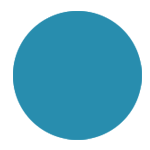
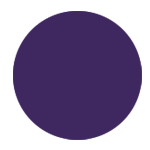
ui stuff
ui stuff

diff --git a/frontend/html/Copy (2) of novabase.html b/frontend/html/Copy (2) of novabase.html
@@ -72,31 +72,28 @@
 	</script>    
   </head>
   <body>
-  
-  {% if ref in ['predash','ancdash','delivery'] %}
-  {% set module = 'pregnancies' %}
-  {% endif %}
-  {% if ref in ['nbcdash'] %}
-  {% set module = 'newborn' %}
-  {% endif %}
-  {% if ref in ['pncdash'] %}
-  {% set module = 'postnatal' %}
-  {% endif %}
-  
-  
-  
-  
     <div id="top">
    
       <div id="header">
-                <div id="langs">
+        <div id="nom1">
+          <div id="ministry">
+            <img src="{{  static_path }}/images/rwanda.png" />
+          </div>
+          <div id="rapid">
+            <img src="{{  static_path }}/images/rapid.png" />
+            </div>
+            <div id="unicef">
+            <img src="{{  static_path }}/images/unicef1.png" />
+          </div>
+          <div id="motto"></div>
+        </div>
+        <div id="langs1">
           <ul>
             <li>English</li>
             <li>Kinyarwanda</li>
-            <li>Francais</li>
+            <li>Français</li>
           </ul>
         </div>
-        <div id="user">{{ display.auth.username() }}- <a href="/authentication?logout=yes">Logout</a></div>
         {%  block topstrip  %}
 
         <div id='cssmenu' class="cssmenu">
@@ -158,17 +155,17 @@
 	<div class="central">
     <div class="position">
 
-     <li><a href="/dashboards/home">  Home</a></li>
+     <li><a href="/">  Home</a></li>
 {% block position %}{% endblock %}
 
 </div>
       
       
       <div class="view">
-      <div class="tabular {% if view == 'log' %} {{ module }}background {% endif %} "><a href="/tables/{{ nav.link(ref, view = 'log', minus = ['summary']) }}">Log</a></div>
-      <div class="tabular {% if view == 'table'%} {{ module }}background {% endif %}"><a href="/tables/{{ nav.link(ref, summary = 'on', view = 'table')}}">Table</a></div>
-      <div class="graphic {% if view == 'graphic' %} {{ module }}background {% endif %}"><a href="/dashboards/{{ nav.link(ref, view = 'graphic', minus = ['summary'])}}">Graphic</a></div>
-
+      <div class="tabular {% if view == 'log' %} active {% endif %} "><a href="/tables/{{ nav.link(ref, view = 'log', minus = ['summary']) }}">Log</a></div>
+      <div class="tabular {% if view == 'table'%} active {% endif %}"><a href="/tables/{{ nav.link(ref, summary = 'on', view = 'table')}}">Table</a></div>
+      <div class="graphic {% if view == 'graphic' %} active {% endif %}"><a href="/dashboards/{{ nav.link(ref, view = 'graphic', minus = ['summary'])}}">Graphic</a></div>
+{{ ref }}
       </div>
 	</div>
 	</div>

diff --git a/frontend/html/nbcdash.html b/frontend/html/nbcdash.html
@@ -18,7 +18,7 @@
 
 
 <div class="smallcontainer">
-    <div class="infoname">Total Of {{display.title}} Newborn Visits</div>
+    <div class="infoname newborntext">Total Of {{display.title}} Newborn Visits</div>
     <div class="moretotal" ><a href="{{ nav.link('/tables/nbcdash', summary = 'on')}}">View by Location</a></div>
     <div class="infodata goodnum playable">
       <a href="{{ nav.link('/tables/nbcdash', group = display['group'])}}">{{  display.nat[0]['total']|neat_numbers}}</a>
@@ -27,7 +27,7 @@
       <img class="icon" src="{{  static_path }}/images/pre3gnantwo1man.jpg" />
     </div>
 
-    <div class="infoname">Total Newborn Visits</div>
+    <div class="infoname newborntext">Total Newborn Visits</div>
     <div class="moretotal" ><a href="{{ nav.link('/tables/nbcdash', group = 'all', summary = 'on')}}">View by Location</a></div>
     <div class="infodata goodnum playable">
       <a href="{{ nav.link('/tables/nbcdash', group = 'all') }}">{{  display.total|neat_numbers}}</a>
@@ -40,7 +40,7 @@
 {% else%}
 
 <div class="smallcontainer">
-    <div class="infoname">Total Newborn Visits</div>
+    <div class="infoname newborntext">Total Newborn Visits</div>
     <div class="moretotal" ><a href="{{ nav.link('/tables/nbcdash', summary = 'on')}}">View by Location</a></div>
     <div class="infodata goodnum playable">
       <a href="{{ nav.link("/tables/nbcdash") }}">{{  display.nat[0]['total']|neat_numbers }}</a>

diff --git a/frontend/html/predash.html b/frontend/html/predash.html
@@ -33,7 +33,7 @@
 
 
 <div class="smallcontainer">
-    <div class="infoname">Total Of {{display.title}} Pregnancies</div>
+    <div class="infoname pregnanciestext">Total Of {{display.title}} Pregnancies</div>
     <div class="moretotal" ><a href="{{ nav.link('/tables/predash', summary = 'on')}}">View by Location</a></div>
     <div class="infodata goodnum playable">
       <a href="{{ nav.link('/tables/predash', group = display['group'])}}">{{  display.nat[0]['total']|neat_numbers}}</a>
@@ -42,7 +42,7 @@
       <img class="icon" src="{{  static_path }}/images/pregnantwoman.jpg" />
     </div>
 
-    <div class="infoname">Total Pregnancies</div>
+    <div class="infoname pregnanciestext">Total Pregnancies</div>
     <div class="moretotal" ><a href="{{ nav.link('/tables/predash', group = 'all', summary = 'on')}}">View by Location</a></div>
     <div class="infodata goodnum playable">
       <a href="{{ nav.link('/tables/predash', group = 'all') }}">{{  display.total|neat_numbers}}</a>
@@ -55,7 +55,7 @@
 {% else%}
 
 <div class="smallcontainer">
-    <div class="infoname">Total Pregnancies</div>
+    <div class="infoname pregnanciestext">Total Pregnancies</div>
     <div class="moretotal" ><a href="{{ nav.link('/tables/predash', summary = 'on')}}">View by Location</a></div>
     <div class="infodata goodnum playable">
       <a href="{{ nav.link("/tables/predash") }}">{{  display.nat[0]['total']|neat_numbers }}</a>

diff --git a/frontend/static/stylesheets/layout.css b/frontend/static/stylesheets/layout.css
@@ -71,13 +71,33 @@ background: #5bb8f9;
 
 
 .newborntext{
-	color: #288dae;
+	color: #3f2860;
 }
 .newbornbackground{
-	background-color: #288dae
+	background-color: #3f2860;
 }
 .newborncircle{
 	background: url(../images/newborncircle.png);
+}
+
+.pregnanciestext{
+	color: #90c5a9;
+}
+.pregnanciesbackground{
+	background-color: #90c5a9;
+}
+.pregnanciescircle{
+	background: url(../images/newborncircle.png);
+}
+
+.postnataltext{
+	color: #7a9a95;
+}
+.postnatalbackground{
+	background-color: #90c5a9;
+}
+.postnatalcircle{
+	background: url(../images/postnatalcircle.png);
 }
 
 
@@ -113,6 +133,7 @@ background: #5bb8f9;
 }
 
 #user{
+	text-align: right;
 	height: 40px;
 	width: 50%;
 	float: right;
@@ -293,11 +314,11 @@ font-family: 'Open Sans', sans-serif;
 
 
 .infoname{
-	
+	padding-top:20px;
 	font-family: 'Open Sans', sans-serif;
 	font-weight:lighter;
 	font-size: 28px;
-	color: #16b494;
+	
 }
 
 .infodata{
@@ -398,7 +419,7 @@ padding-top: 20px;
 	display: inline-block;
 	float: left;
 	padding-left:15px;
-	background: url(../images/circle.png);
+	
 }
 
 .datapointccm{
@@ -468,7 +489,7 @@ padding-top: 20px;
 }
 
 .number:hover{ 
-	color: #1f89bf;
+	color: #fff;
 }
 .risknumber:hover{ 
 	color: #1f89bf;

diff --git a/frontend/html/basicdisplay.html b/frontend/html/basicdisplay.html
@@ -1,10 +1,10 @@
 {%  for attr in display.attrs %}
-  <div class="datapoint">
+  <div class="datapoint {{ module }}circle">
   
     {%  set num = display.nat[0][attr[0]] %}
     
     <div class="descr">{{  attr[1] }}</div>
-    <div class="moreoptions startshidden" > <a href="/tables/{{  nav.link(ref, subcat = attr[0], minus = ['pid', 'id'], summary = 'on')  }}">View by Location</a></div>
+    <!--  <div class="moreoptions startshidden" > <a href="/tables/{{  nav.link(ref, subcat = attr[0], minus = ['pid', 'id'], summary = 'on')  }}">View by Location</a></div>-->
     <div class="number">{% if  num %}<a href="/tables/{{  nav.link(ref, subcat = attr[0], minus = ['pid', 'id'])  }}">{{ num|neat_numbers }}</a>{% else  %}  {{  num|neat_numbers }}  {%  endif %}</div>
     
   </div>

diff --git a/frontend/html/home.html b/frontend/html/home.html
@@ -95,14 +95,14 @@
    
       <div id="header">
         
-        <div id="langs" style="width:100%;">
+        <div id="langs">
           <ul>
             <li>English</li>
             <li>Kinyarwanda</li>
             <li>Francais</li>
           </ul>
         </div>
-        <div id="user">{{ display.auth.username() }}</div>
+        <div id="user">{{ display.auth.username() }}- <a href="/authentication?logout=yes">Logout</a></div>
          <div id="ministry" style="width:100%; text-align:center;">
             <img style="max-width:100px;" src="../static/images/Rwandacoat.png" />
           </div>

diff --git a/frontend/html/dater.html b/frontend/html/dater.html
@@ -1,3 +1,3 @@
-<input value="{{  args.get('start', '')  }}" class="activedate" type="text" name="start" />
-<input value="{{  args.get('finish', '')  }}" class="activedate" type="text" name="finish" />
+<input value="{{  args.get('start', '')  }}" placeholder="Start date" class="activedate" type="text" name="start" />
+<input value="{{  args.get('finish', '')  }}" placeholder="End date" class="activedate" type="text" name="finish" />
 

diff --git a/frontend/html/index.html b/frontend/html/index.html
@@ -102,7 +102,7 @@
             <li>Francais</li>
           </ul>
         </div>
-        <div id="user">Username</div>
+        <div id="user">{% if display.auth %}{{	display.auth.username()	}}{% endif %}</div>
          <div id="ministry" style="width:100%; text-align:center;">
             <img style="max-width:100px;" src="../static/images/Rwandacoat.png" />
           </div>

diff --git a/frontend/static/stylesheets/menu.css b/frontend/static/stylesheets/menu.css
@@ -104,7 +104,7 @@
 
 #cssmenu ul ul {
 	position:absolute;
-	top: 110px;
+	top: 80px;
 	color:#fff;
     background: #9fd4f9;
     min-width: 80px;

diff --git a/iminsigihumbi.py b/iminsigihumbi.py
@@ -1557,6 +1557,7 @@ class Application:
       ('lmp',            'Date Of Birth'),
       
     ] , *args, **kw)
+    auth    = ThousandAuth(cherrypy.session['email'])
     DESCRI = []
     INDICS = []
     if kw.get('subcat') and kw.get('subcat').__contains__('_bool'):
